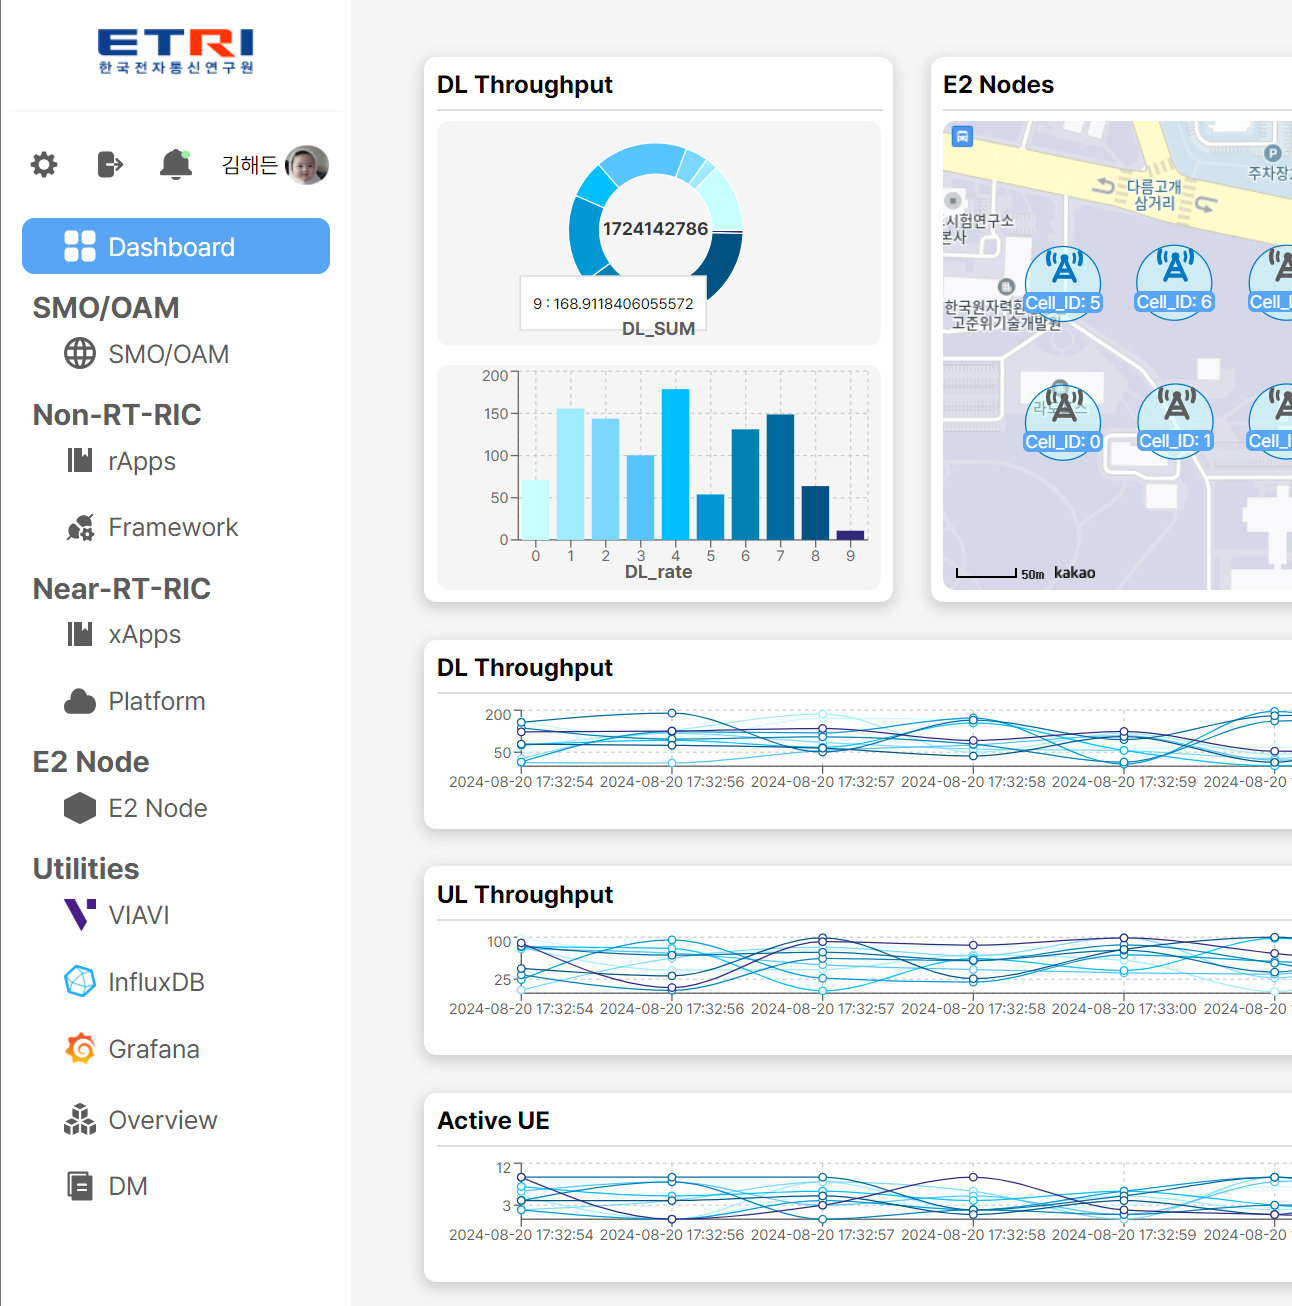
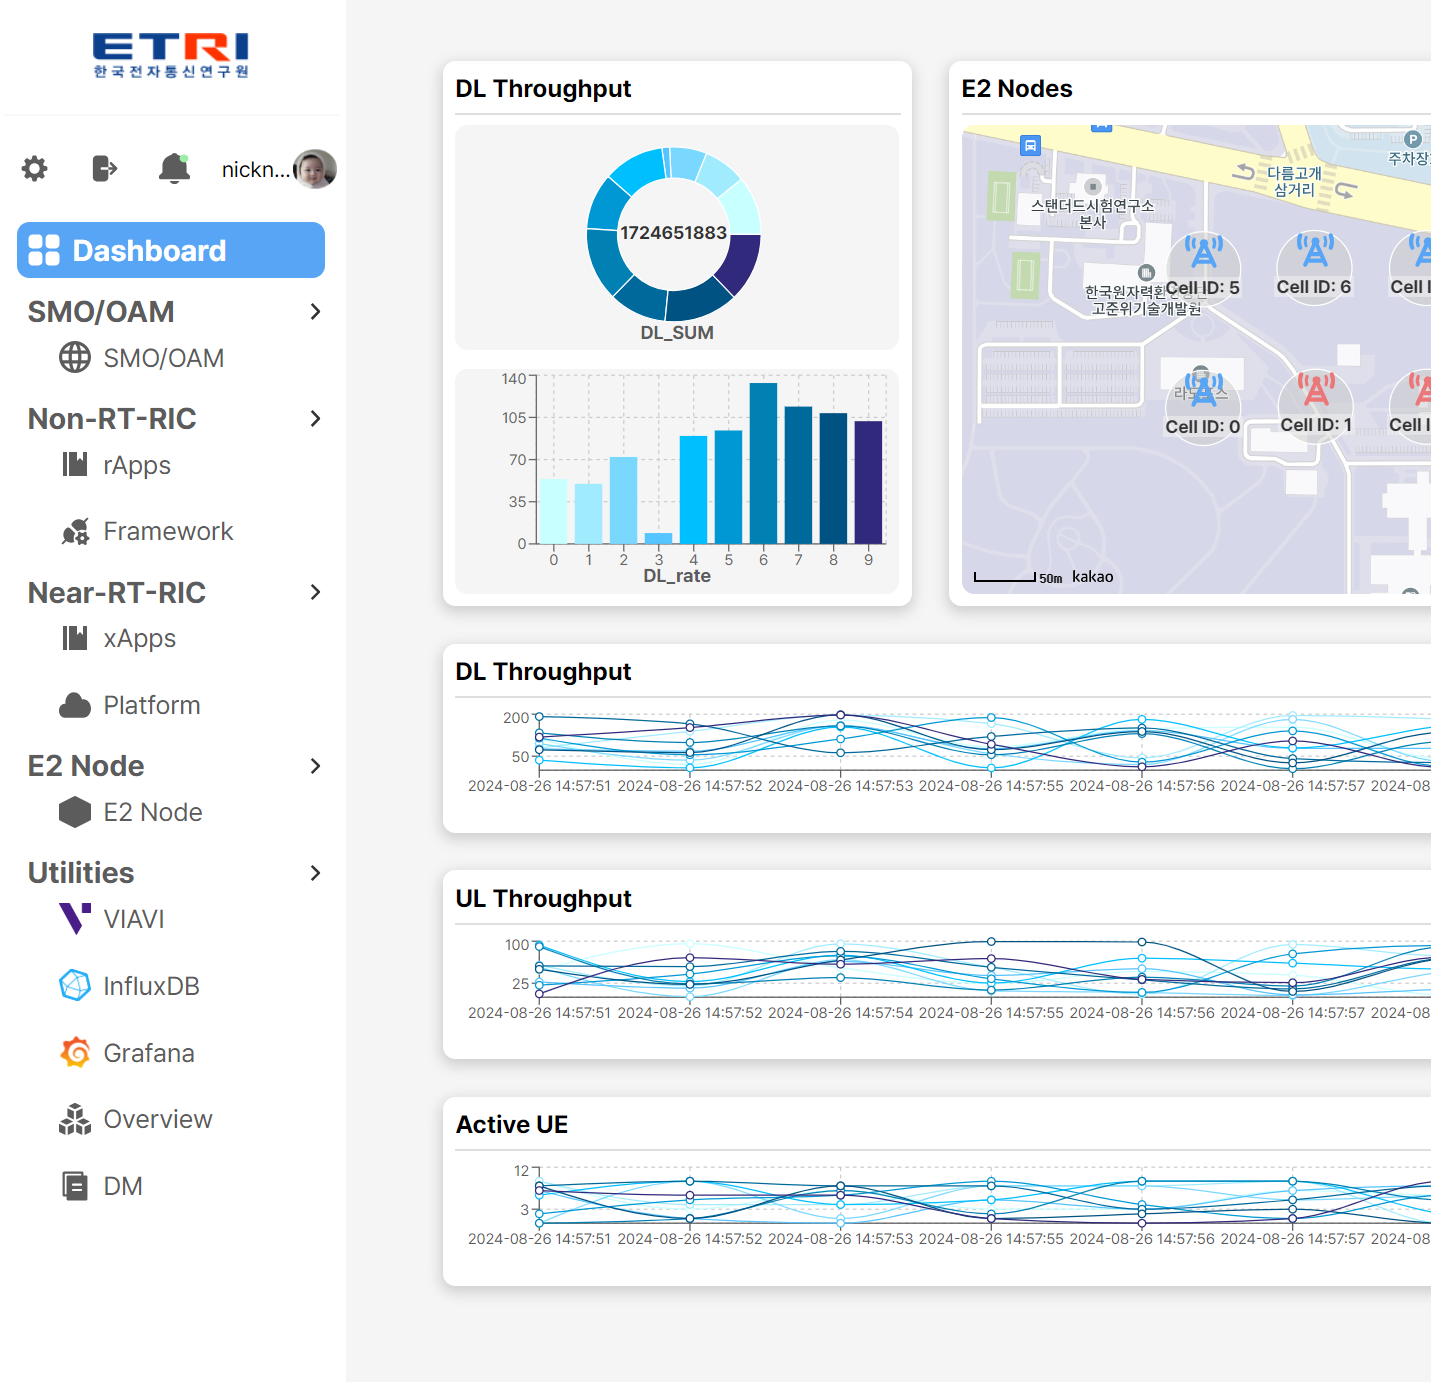
fix, style : 지도 ui 수정, 로그인 api 적용, 로그아웃 api 임시제외, 시작화면 이미지 변경

diff --git a/src/store/useAuthStore.ts b/src/store/useAuthStore.ts
@@ -4,12 +4,12 @@ import useNavigates from '../hooks/useNavigates';
 
 // * 로그인 부분
 interface StoreState {
-    isLogin : boolean | null; // 로그인 상태정보
+    isLogin : boolean ; // 로그인 상태정보
     username: string | null; // 사용자 이름 저장
     password: string | null; // 비밀번호 저장
-    storeLogin: (username: string, password: string) => void; // 로그인 액션 함수
+    token: string | null;
+    storeLogin: (username: string, password: string, token: string) => void; // 로그인 액션 함수
     storeLogout: () => void; // 로그아웃 액션 함수
-    storeAuthDelete: () => void; // 인증 상태 리셋 함수, 회원탈퇴
     initializeAuthState: () => void; // 초기화 함수 추가
 }
 
@@ -22,7 +22,8 @@ interface StoreState {
 const getToken = () => {
     const username = localStorage.getItem('username');
     const password = localStorage.getItem('password');
-    return { username, password };
+    const token = localStorage.getItem('token');
+    return { username, password , token};
 };
 
 // const setToken = (token: string) => {
@@ -30,10 +31,11 @@ const getToken = () => {
 // };
 
 // todo : 후에 token으로 변경
-const setToken = (username:string, password:string) => {
+const setToken = (username:string, password:string, token:string) => {
     localStorage.setItem('username', username);
     localStorage.setItem('password', password);
-    };
+    localStorage.setItem('token', token);   // 토큰 저장 
+};
 
 const removeToken = () => {
     localStorage.clear();
@@ -43,17 +45,20 @@ const removeToken = () => {
 //todo : 로그인 상태와 유저 정보를 저장하는 전역 상태.
 // * 로그인 전역 상태 
 export const useAuthStore = create<StoreState>((set) => ({
-    isLogin : null, // 로그인 상태 null 선언. (isLogin 초기값을 null로 설정: isLogin이 null일 때 초기화가 진행 중)
+    isLogin : false, // 로그인 상태 null 선언. (isLogin 초기값을 null로 설정: isLogin이 null일 때 초기화가 진행 중)
     username: null, // 초기값 null //todo : 후에 token으로 변경 
     password: null, // 초기값 null
+    token: null,
 
     //* 로그인 진행 함수 (전역변수 지정, localstorage 저장)
-    storeLogin: (username: string, password: string) => {
+    storeLogin: (username: string, password: string, token:string) => {
         set(() => ({
             isLogin : true, 
             username: username , 
-            password: password }));
-        setToken(username, password); // 토큰 저장 //todo : 후에 token으로 변경  
+            password: password ,
+            token: token
+        }));
+        setToken(username, password,token); // 토큰 저장 //todo : 후에 token으로 변경  
     }, // 로그인 상태로 지정하는 함수
     
     //*로그아웃 상태 (전역변수 비우기, localstorage 삭제)
@@ -61,37 +66,39 @@ export const useAuthStore = create<StoreState>((set) => ({
         set(() => ({
             isLogin: false,
             username: null, //todo : 후에 token으로 변경  
-            password: null //logout 상태로 지정
+            password: null, //logout 상태로 지정
+            token: null
         }));
 
         removeToken(); // 토큰 삭제.
     },
 
-    //* 회원탈퇴 상태
-    storeAuthDelete: () => {
-        set(() => ({
-            isLogin: null, // 상태를 null로 리셋
-            username: null,
-            password: null
-        }));
-        removeToken(); // 로컬 스토리지의 정보 삭제
-    },
     //* 초기화 함수 (로컬 스토리지에서 토큰 가져와 전역 상태와 동기화)
     initializeAuthState: () => {
-        const { username, password } = getToken();
-        if (username && password) {
+        const { username, password, token } = getToken();
+        // console.log('응애',username, password, token); // 있는데,,
+        if (username && password && token) {
             set(() => ({
                 isLogin: true,
                 username: username,
-                password: password
+                password: password,
+                token: token
             }));
-        }else{
-            set(() => ({
-                isLogin: false, // unername, password가 없다면, login false로 바꾸기.
-            }))
-
-            
-        }
+        } 
+        // ! 로그인이 되어 있지 않은 경우, /login 페이지로 이동한다. --------------//
+        // else{
+        //     if (!['/login', '/sign-up'].includes(window.location.pathname)){
+        //         Swal.fire({
+        //             icon : "info",
+        //             title: 'Please Log In',
+        //             text: 'You need to log in to access this feature. Please log in to continue.', //이 기능을 사용하려면 로그인이 필요합니다. 계속하려면 로그인해 주세요.
+        //             didClose: () => { // 닫힌 후에 실행.
+        //               window.location.href = '/login'; // '닫기' 버튼 클릭 시 , 로그인 페이지로 이동
+        //             }
+        //         })
+        //     }
+        // }
+        // ! ----------------------------------------------------------------//
     }
 }))
 

diff --git a/src/components/Sidebar/Minibar.tsx b/src/components/Sidebar/Minibar.tsx
@@ -11,10 +11,14 @@ import styles from './Minibar.module.scss';
 import { useLocation, useNavigate } from 'react-router-dom';
 import Swal from 'sweetalert2';
 import { useAuthStore } from '../../store/useAuthStore';
+import useNavigates from '../../hooks/useNavigates';
 
 const Minibar:React.FC= () =>{
     // * 전역 상태 --------------//
     const {isLogin, storeLogout} = useAuthStore();
+
+    //* hook
+    const {goLogin} = useNavigates();
 
     //* 알림 -------------------//
     const [alarmDatas, setAlarmDatas] = useState<AlarmData[]>([]); // 알림데이터
@@ -65,30 +69,38 @@ const Minibar:React.FC= () =>{
         navigate('/setting');
     }
 
-    // *로그아웃 처리 핸들러 -------- */
+    // *로그아웃 처리 핸들러 -------- */ 
+    // todo : 후에 로그아웃 핸들러로 변경.
     const handleLogout = async () => {
+        storeLogout(); // todo  후에 handleLogout으로 변경
+        Swal.fire({
+            icon: 'success',
+            text: 'Logged out successfully.',
+        });
+        goLogin(); // todo  후에 handleLogout으로 변경
 
-        //1. 로그아웃 API 호출 
-        const url=`/logout`; 
-        try{
-            const response = await defaultAxios.get(url);
-            //todo 로그아웃 성공했는지 비교하는 로직도 필요 (api data 추가되면 수정하기, 0812 ) 
-            storeLogout(); // 로그아웃 진행 (토큰 삭제, 전역 상태)
+                    
+
+        // //1. 로그아웃 API 호출 
+        // const url=`/logout`; 
+        // try{
+        //     const response = await defaultAxios.get(url);
+        //     //todo 로그아웃 성공했는지 비교하는 로직도 필요 (api data 추가되면 수정하기, 0812 ) 
+        //     // storeLogout(); // 로그아웃 진행 (토큰 삭제, 전역 상태)
             
-            Swal.fire({
-                icon: 'info',
-                text: '로그아웃 되었습니다.',
-            });
-            navigate('/login'); // 로그인 페이지로 이동
-        } catch(error){
-            console.error(error);
-            Swal.fire({
-                icon: 'error',
-                text: '로그아웃에 실패했습니다.',
-            });
-        }
+        //     Swal.fire({
+        //         icon: 'info',
+        //         text: 'Logged out successfully.',
+        //     });
+        //     navigate('/login'); // 로그인 페이지로 이동
+        // } catch(error){
+        //     console.error(error);
+        //     Swal.fire({
+        //         icon: 'error',
+        //         text: 'Logout failed.',
+        //     });
+        // }
         // console.log('Logging out...');
-
     };
         
     return(
@@ -104,7 +116,8 @@ const Minibar:React.FC= () =>{
             <div 
                 className= {`${styles.item} ${selectedIndex === 1 ? styles.clicked : ''}`} 
                 onClick={()=>{
-                    handleLogout();
+                    handleLogout(); //todo 후에 이걸로 사용
+
                     handleItemClick(1);
                     }}>
                 <img className= {styles.icon} src={logout} alt='logout'/>

diff --git a/src/App.tsx b/src/App.tsx
@@ -69,35 +69,19 @@ function App() {
   });
 
 
+
+
   // * 첫 실행 시 로컬스토리지와 토큰 가져와 전역 상태와 동기화.
   useEffect(()=>{
     initializeAuthState();
     // useAuthStore.getState().initializeAuthState(); // 상태 초기화.
   },[initializeAuthState]);
 
-  
-  //! 경로 변경마다 로그인 상태 판단하여 로그인 안되어있으면 login 페이지로 이동. --------//
-  //! 로그인이 안됐을때 다른페이지에 가도록 적용하시려면, 해당 주석을 푸시면 됩니다. 
+  // * 페이지 이동 시 로컬스토리지와 토큰 가져와 전역 상태와 동기화.
   useEffect(()=>{
+    initializeAuthState(); //토큰정보를 확인해서 로그인이 됐는지, 안 됐는지 확인한다.
+  },[location.pathname]);
 
-    // *초기화 중이거나, 이미 로그인 페이지에 있거나, 회원가입 페이지에 있는 경우엔 아무 작업 안 함
-    if (isLogin === null || ['/login', '/sign-up'].includes(location.pathname)) {
-        return;
-    }
-
-    // *ㅑ로그인 페이지, 회원가입 페이지가 아니고 and 로그인 상태가 false이면? -> login 페이지로 이동!
-    if (!isLogin && !['/login', '/sign-up'].includes(location.pathname)){
-      Swal.fire({
-        icon : "info",
-        title: 'Please Log In',
-        text: 'You need to log in to access this feature. Please log in to continue.', //이 기능을 사용하려면 로그인이 필요합니다. 계속하려면 로그인해 주세요.
-        didClose: () => { // 닫힌 후에 실행.
-          goLogin(); // '닫기' 버튼 클릭 시 , 로그인 페이지로 이동
-        }
-      })
-    }
-  },[location.pathname, isLogin]);
-  //! -------------------------------------------------------------------------------//
 
   // 로그인 부분 나타냄.
   return (

diff --git a/src/components/MapView/MapView.tsx b/src/components/MapView/MapView.tsx
@@ -15,10 +15,12 @@ const StyledMarkerName = styled.div`
     display: flex;
     align-items: center;
 
-    color: #FFFFFF;
+    color: #333333;
     font-size: 0.9rem;
-    background-color : #59A5F5;
-    border-radius: 5px;
+    font-family: 'Pretendard';
+    font-weight: bold;
+    background-color : #f5f5f57a;
+    /* border-radius: 5px; */
     /* border: 1px solid #333333; */
     
     text-align: center;
@@ -99,7 +101,7 @@ const MapView : React.FC = () => {
                 <CustomOverlayMap 
                     position={{ lat: ric['Y_Pos'], lng: ric['X_Pos'] }}
                 >
-                    <StyledMarkerName>Cell_ID: {ric['Cell_ID']}</StyledMarkerName>
+                    <StyledMarkerName>Cell ID: {ric['Cell_ID']}</StyledMarkerName>
                 </CustomOverlayMap> 
 
                 
@@ -108,11 +110,11 @@ const MapView : React.FC = () => {
                     center={{lat : ric['Y_Pos'], lng : ric['X_Pos']}} 
                     radius={ric['Tx_Power']} // 파워값으로, 반지름
                     strokeWeight={1} // 선의 두께입니다
-                    strokeColor={"#0077C2"} // 선의 색깔입니다
+                    strokeColor={"#FFFFFF"} // 선의 색깔입니다
                     strokeOpacity={2} // 선의 불투명도 입니다 1에서 0 사이의 값이며 0에 가까울수록 투명합니다
                     strokeStyle={"solid"} // 선의 스타일 입니다
-                    fillColor={"#C8FFFF"} // 채우기 색깔입니다
-                    fillOpacity={0.5} // 채우기 불투명도 입니다
+                    fillColor={"#ccccccb7"} // 채우기 색깔입니다#C8FFFF
+                    fillOpacity={0.7} // 채우기 불투명도 입니다
                 />
 
 

diff --git a/src/pages/Login/Login.tsx b/src/pages/Login/Login.tsx
@@ -37,13 +37,14 @@ const Login: React.FC = () => {
 
             try{
                 const response = await defaultAxios.post(url, formData);
-                
+                // console.log(response.data);
                 //2-1. 성공시/실패시 호출 
                 // 로그인 성공시,
-                if (response.data.message === "Login OK"){
+                if (response.data.data.message === "Login OK"){
                     const { storeLogin } = useAuthStore.getState(); // storeLogin 함수 가져오기
-                    storeLogin(userName, password); // 상태 업데이트
+                    storeLogin(userName, password, response.data.token); // 상태 업데이트
                     goMain(); //main 페이지로 이동
+                    
                 } else { // 로그인 실패시  
                     Swal.fire({
                         icon:'error',

diff --git a/src/pages/SettingPage/SettingPage.tsx b/src/pages/SettingPage/SettingPage.tsx
@@ -9,7 +9,7 @@ import { settingData } from "./settingData";
 
 const Setting: React.FC = () => {
     const {goLogin} = useNavigates();
-    const {username, password, storeAuthDelete} = useAuthStore();
+    const {username, password, storeLogout} = useAuthStore();
 
         
         //* 삭제 API 호출
@@ -28,7 +28,7 @@ const Setting: React.FC = () => {
 
                 // 성공 시, // todo : 나중에 message는 바뀔 수 있다.
                 if (response.data.message === "Delete OK") {
-                    storeAuthDelete();/// 회원탈퇴 진행
+                    storeLogout();/// 회원탈퇴 진행
 
                     // * 탈퇴 성공시. 
                     Swal.fire({

diff --git a/src/pages/SignUpPage/SignUpPage.tsx b/src/pages/SignUpPage/SignUpPage.tsx
@@ -67,7 +67,7 @@ const SignUpPage: React.FC = () => {
                     // 회원가입 성공 시 
                     if (response.data.message === "OK"){
                         Swal.fire({
-                            icon: 'info',
+                            icon: 'success',
                             text: 'Registration successful.', //회원가입 되었습니다.
                         });
                         goLogin();// 로그인 페이지로 이동

diff --git a/src/pages/Framework/FrameworkCard/FrameworkCard.module.scss b/src/pages/Framework/FrameworkCard/FrameworkCard.module.scss
@@ -61,8 +61,8 @@ $off-color: #ED9E9F;
         }
         //이미지 아이콘 컨테이너 부분
         .header_img{
-            width: 2.5rem;
-            height: 2.5rem;
+            width: 2.75rem;
+            height: 2.75rem;
             background-color: $on-color;
             border-radius: 2.5rem;
             display: grid;

diff --git a/src/pages/Platform/PlatformCard/PlatformCard.module.scss b/src/pages/Platform/PlatformCard/PlatformCard.module.scss
@@ -52,8 +52,8 @@ $off-color: #ED9E9F;
         }
         //이미지 아이콘 컨테이너 부분
         .header_img{
-            width: 2.5rem;
-            height: 2.5rem;
+            width: 2.75rem;
+            height: 2.75rem;
             background-color: $on-color;
             border-radius: 2.5rem;
             display: grid;

diff --git a/src/pages/RApps/RAppCard/RAppCard.module.scss b/src/pages/RApps/RAppCard/RAppCard.module.scss
@@ -46,8 +46,8 @@
         }
         //이미지 아이콘 컨테이너 부분
         .header_img{
-            width: 2.5rem;
-            height: 2.5rem;
+            width: 2.75rem;
+            height: 2.75rem;
             background-color: #59A5F5;
             border-radius: 2.5rem;
             display: grid;

diff --git a/src/pages/XApps/XAppCard/XAppCard.module.scss b/src/pages/XApps/XAppCard/XAppCard.module.scss
@@ -46,8 +46,8 @@
         }
         //이미지 아이콘 컨테이너 부분
         .header_img{
-            width: 2.5rem;
-            height: 2.5rem;
+            width: 2.75rem;
+            height: 2.75rem;
             background-color: #00BFFF;
             border-radius: 2.5rem;
             display: grid;
